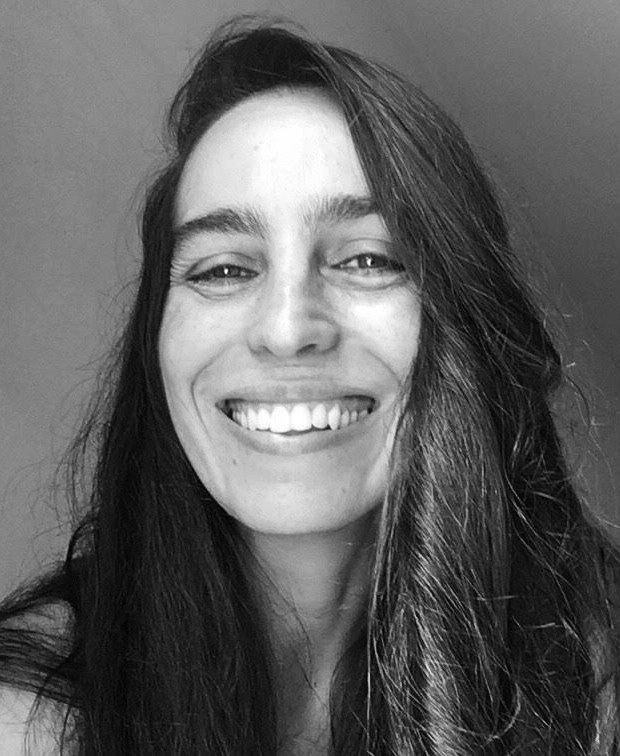
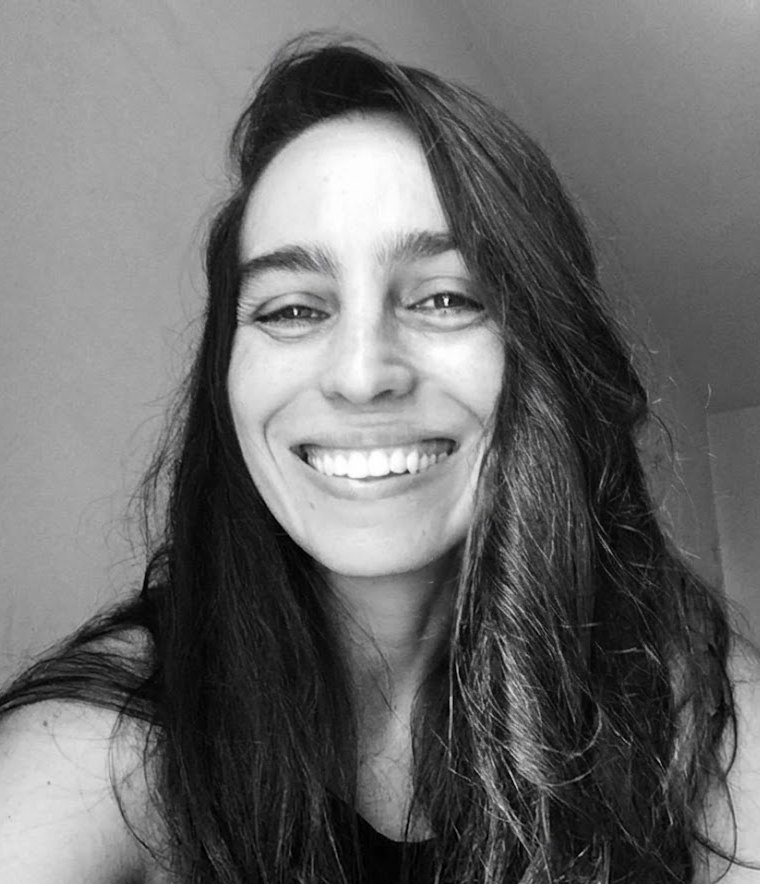
Reuma Zoher Chayot: better-proportioned portrait; Yad Eliyahu: drop gallery image now used as wide header
Claude-Session: https://claude.ai/code/session_01QkAKRws44ovKHraAvb378y

diff --git a/index.html b/index.html
@@ -962,7 +962,7 @@ const SITE = {
     {"id": "instant-pudding", "title": "אינסטנט פודינג ואבק שריפה", "artists": ["אלעד לרום", "אסף אלבוחר", "חניתה שוורץ", "יעל ורטהיים סואן", "יפעת גלעדי", "ניצן המרמן", "עינב צייכנר"], "artistsEn": ["Elad Larom", "Asaf Alboher", "Hanita Schwartz", "Yael Wertheim Suan", "Yifat Giladi", "Nitzan Hamerman", "Einav Zeichner"], "start": "2025-06-13", "end": "2025-08-30", "curator": "אוסקר אבוש, לי אורפז", "img": "img/x-instant-pudding.jpg", "works": [{"img": "img/x-instant-pudding.jpg", "caption": ""}, {"img": "img/x-instant-pudding-w1.jpg", "caption": ""}, {"img": "img/x-instant-pudding-w2.jpg", "caption": ""}, {"img": "img/x-instant-pudding-w3.jpg", "caption": ""}, {"img": "img/x-instant-pudding-w4.jpg", "caption": ""}, {"img": "img/x-instant-pudding-w5.jpg", "caption": ""}], "curatorEn": "Oscar Abosh, Lee Orpaz", "curatorLabel": "אוצרים", "curatorLabelEn": "Curators"},
     {"id": "bear-tooth", "title": "שן הדוב", "artists": ["ציפי לוסטיג"], "artistsEn": ["Zipi Lustig"], "start": "2025-04-04", "end": "2025-05-24", "curator": "הגר רבן", "img": "img/x-bear-tooth.jpg", "curatorEn": "Hagar Raban", "curatorLabel": "אוצרת", "curatorLabelEn": "Curator"},
     {"id": "nowomennokids", "title": "NoWomenNoKids", "artists": ["יבגני מרמן"], "artistsEn": ["Evgeny Merman"], "start": "2025-02-20", "end": "2025-03-29", "curator": "נעה ויסברג", "img": "img/x-nowomennokids.jpg", "curatorEn": "Noa Weisberg", "curatorLabel": "אוצרת", "curatorLabelEn": "Curator"},
-    {"id": "yad-eliyahu", "title": "יד אליהו / שכונה", "text": ["פלורה מלינש מתגוררת עם משפחתה בשכונה בה נולדה. השכונה נבנתה בשנות הארבעים של המאה הקודמת (בשמה הקודם: אדמות זבלאווי), ומאופיינת ב״מבני רכבת״: דירות קטנות, צנועות, בטורים־טורים של בניינים בני ארבע קומות, ביניהם מרחב ציבורי נדיב, חצרות משותפות, גן עדן לילדי השכונה. שכונת יד אליהו היא כמו אבטיפוס לשכונות שנבנו בכל רחבי הארץ באותן שנים, בבנייה מהירה מתוך צורך לאכלס את משוחררי הצבא הבריטי, ולאחר מלחמת העולם השנייה – חיילים משוחררים וניצולי שואה.", "מאז שנת 2018 מלינש משוטטת בשכונה, עדה לתהליכים בלתי נמנעים המתחוללים למולה. המצלמה, סוג של חיץ, מייצרת מרחק, מאפשרת לה להתבונן ולבחון מחדש את המקום המוכר כל כך.", "מלינש מתעדת את שכונת יד אליהו בנקודת זמן קריטית, בלתי נמנעת, בה מתחולל מהפך של הריסת הישן לטובת הקמת בניינים חדשים, גבוהים יותר, מאובזרי מעלית, ממ״ד וחניה. היא חוזרת לאותם אתרים שוב ושוב, מצלמת אותם על השינויים שעוברים עליהם בשלבי ההריסה ועד להיעלמותם. התיעוד הפרטני מטעין את הצילומים גם בתחושת דחיפות, בעקשנות של מלינש, אולי בניסיון להיאחז במקום שהיה.", "הצילומים מציגים את אופי החיים בשכונה, הגבול הפרום בין הפנים והחוץ, פינות ישיבה וחפצים הגולשים אל השטחים שבין הבניינים ואל המרחב הציבורי. במקביל, נוצר גם אינדקס של השכונה שבמעבר: שרידי מבנים, גדרות צבר של תושבים ערבים לפני מלחמת 1948, בנייני הרכבות, חלקם בשלבי הריסה, כניסות, תריסי פלסטיק, רהיטים וחפצים ששרדו את ההריסות, יריעות פלסטיק מפרידות ומכסות, כלי עבודה, מקום תפילתם של הפועלים.", "התבוננות במאגר הצילומים מציגה בפנינו את השכונה הישנה, את אורח החיים של התושבים, את נקודת הזמן העכשווית, בה תילי תילים של חומרי בנייה שהיו פעם בתים הפכו לנוף של המקום. במקביל, הבנייה החדשה התופסת את מקומם של המבנים הישנים מסמנת את העתיד.", "לרגע נדמה שיש בכוחה של המצלמה הקטנה של מלינש לעצור את הזמן מלכת."], "textEn": ["Flora Malinash lives with her family in the neighborhood where she was born. Built in the 1940s (under its former name, the lands of Zablawi), the neighborhood is characterized by “train buildings”: small, modest apartments in long rows of four-story blocks, with generous public space between them – shared courtyards, a paradise for the neighborhood’s children. Yad Eliyahu is something of a prototype for the neighborhoods built across the country in those years, constructed quickly out of the need to house veterans of the British Army and, after the Second World War, discharged soldiers and Holocaust survivors.", "Since 2018, Malinash has been wandering the neighborhood, witnessing the inevitable processes taking place before her. The camera, a kind of buffer, creates distance and allows her to observe and re-examine this all-too-familiar place.", "Malinash documents Yad Eliyahu at a critical, inevitable moment, as a transformation unfolds: the old is demolished to make way for new, taller buildings equipped with elevators, safe rooms and parking. She returns to the same sites again and again, photographing them through the changes they undergo during demolition, until they disappear. This detailed documentation also charges the photographs with a sense of urgency, with Malinash’s persistence – perhaps an attempt to hold on to a place that once was.", "The photographs show the character of life in the neighborhood: the frayed boundary between inside and outside, seating corners and objects spilling into the spaces between the buildings and into the public realm. At the same time, an index of the neighborhood in transition takes shape: remains of structures, prickly-pear hedges planted by Arab residents before the 1948 war, the train buildings – some of them in stages of demolition – entrances, plastic shutters, furniture and objects that survived the demolitions, plastic sheets that separate and cover, work tools, the workers’ place of prayer.", "Looking through this archive of photographs reveals the old neighborhood, the residents’ way of life, and the present moment, in which heaps upon heaps of building materials that were once homes have become the landscape of the place. Meanwhile, the new construction taking the place of the old buildings marks the future.", "For a moment, it seems that Malinash’s small camera has the power to make time stand still."], "artists": ["פלורה מלינש"], "artistsEn": ["Flora Malinash"], "start": "2025-01-02", "end": "2025-02-01", "curator": "גליה גור-זאב", "img": "img/x-yad-eliyahu.jpg", "slides": [{"img": "img/x-yad-eliyahu-wide.jpg", "label": "", "pos": "50% 50%"}], "works": [{"img": "img/x-yad-eliyahu-w1.jpg", "caption": ""}, {"img": "img/x-yad-eliyahu-w2.jpg", "caption": ""}, {"img": "img/x-yad-eliyahu-w3.jpg", "caption": ""}, {"img": "img/x-yad-eliyahu-w4.jpg", "caption": ""}, {"img": "img/x-yad-eliyahu-w5.jpg", "caption": ""}, {"img": "img/x-yad-eliyahu-w6.jpg", "caption": ""}, {"img": "img/x-yad-eliyahu-w7.jpg", "caption": ""}], "curatorEn": "Galia Gur-Zeev", "curatorLabel": "אוצרת", "curatorLabelEn": "Curator"},
+    {"id": "yad-eliyahu", "title": "יד אליהו / שכונה", "text": ["פלורה מלינש מתגוררת עם משפחתה בשכונה בה נולדה. השכונה נבנתה בשנות הארבעים של המאה הקודמת (בשמה הקודם: אדמות זבלאווי), ומאופיינת ב״מבני רכבת״: דירות קטנות, צנועות, בטורים־טורים של בניינים בני ארבע קומות, ביניהם מרחב ציבורי נדיב, חצרות משותפות, גן עדן לילדי השכונה. שכונת יד אליהו היא כמו אבטיפוס לשכונות שנבנו בכל רחבי הארץ באותן שנים, בבנייה מהירה מתוך צורך לאכלס את משוחררי הצבא הבריטי, ולאחר מלחמת העולם השנייה – חיילים משוחררים וניצולי שואה.", "מאז שנת 2018 מלינש משוטטת בשכונה, עדה לתהליכים בלתי נמנעים המתחוללים למולה. המצלמה, סוג של חיץ, מייצרת מרחק, מאפשרת לה להתבונן ולבחון מחדש את המקום המוכר כל כך.", "מלינש מתעדת את שכונת יד אליהו בנקודת זמן קריטית, בלתי נמנעת, בה מתחולל מהפך של הריסת הישן לטובת הקמת בניינים חדשים, גבוהים יותר, מאובזרי מעלית, ממ״ד וחניה. היא חוזרת לאותם אתרים שוב ושוב, מצלמת אותם על השינויים שעוברים עליהם בשלבי ההריסה ועד להיעלמותם. התיעוד הפרטני מטעין את הצילומים גם בתחושת דחיפות, בעקשנות של מלינש, אולי בניסיון להיאחז במקום שהיה.", "הצילומים מציגים את אופי החיים בשכונה, הגבול הפרום בין הפנים והחוץ, פינות ישיבה וחפצים הגולשים אל השטחים שבין הבניינים ואל המרחב הציבורי. במקביל, נוצר גם אינדקס של השכונה שבמעבר: שרידי מבנים, גדרות צבר של תושבים ערבים לפני מלחמת 1948, בנייני הרכבות, חלקם בשלבי הריסה, כניסות, תריסי פלסטיק, רהיטים וחפצים ששרדו את ההריסות, יריעות פלסטיק מפרידות ומכסות, כלי עבודה, מקום תפילתם של הפועלים.", "התבוננות במאגר הצילומים מציגה בפנינו את השכונה הישנה, את אורח החיים של התושבים, את נקודת הזמן העכשווית, בה תילי תילים של חומרי בנייה שהיו פעם בתים הפכו לנוף של המקום. במקביל, הבנייה החדשה התופסת את מקומם של המבנים הישנים מסמנת את העתיד.", "לרגע נדמה שיש בכוחה של המצלמה הקטנה של מלינש לעצור את הזמן מלכת."], "textEn": ["Flora Malinash lives with her family in the neighborhood where she was born. Built in the 1940s (under its former name, the lands of Zablawi), the neighborhood is characterized by “train buildings”: small, modest apartments in long rows of four-story blocks, with generous public space between them – shared courtyards, a paradise for the neighborhood’s children. Yad Eliyahu is something of a prototype for the neighborhoods built across the country in those years, constructed quickly out of the need to house veterans of the British Army and, after the Second World War, discharged soldiers and Holocaust survivors.", "Since 2018, Malinash has been wandering the neighborhood, witnessing the inevitable processes taking place before her. The camera, a kind of buffer, creates distance and allows her to observe and re-examine this all-too-familiar place.", "Malinash documents Yad Eliyahu at a critical, inevitable moment, as a transformation unfolds: the old is demolished to make way for new, taller buildings equipped with elevators, safe rooms and parking. She returns to the same sites again and again, photographing them through the changes they undergo during demolition, until they disappear. This detailed documentation also charges the photographs with a sense of urgency, with Malinash’s persistence – perhaps an attempt to hold on to a place that once was.", "The photographs show the character of life in the neighborhood: the frayed boundary between inside and outside, seating corners and objects spilling into the spaces between the buildings and into the public realm. At the same time, an index of the neighborhood in transition takes shape: remains of structures, prickly-pear hedges planted by Arab residents before the 1948 war, the train buildings – some of them in stages of demolition – entrances, plastic shutters, furniture and objects that survived the demolitions, plastic sheets that separate and cover, work tools, the workers’ place of prayer.", "Looking through this archive of photographs reveals the old neighborhood, the residents’ way of life, and the present moment, in which heaps upon heaps of building materials that were once homes have become the landscape of the place. Meanwhile, the new construction taking the place of the old buildings marks the future.", "For a moment, it seems that Malinash’s small camera has the power to make time stand still."], "artists": ["פלורה מלינש"], "artistsEn": ["Flora Malinash"], "start": "2025-01-02", "end": "2025-02-01", "curator": "גליה גור-זאב", "img": "img/x-yad-eliyahu.jpg", "slides": [{"img": "img/x-yad-eliyahu-wide.jpg", "label": "", "pos": "50% 50%"}], "works": [{"img": "img/x-yad-eliyahu-w2.jpg", "caption": ""}, {"img": "img/x-yad-eliyahu-w3.jpg", "caption": ""}, {"img": "img/x-yad-eliyahu-w4.jpg", "caption": ""}, {"img": "img/x-yad-eliyahu-w5.jpg", "caption": ""}, {"img": "img/x-yad-eliyahu-w6.jpg", "caption": ""}, {"img": "img/x-yad-eliyahu-w7.jpg", "caption": ""}], "curatorEn": "Galia Gur-Zeev", "curatorLabel": "אוצרת", "curatorLabelEn": "Curator"},
     {"id": "dissolution", "title": "התמוססות", "text": ["מספרים על אל גרקו שהיה מצייר כאשר הסטודיו שלו מואר באור קלוש. יום אחד נכנסה קבוצת פרחי אמנות לבקרו כדי לחזות במאסטר מצייר, הם הופתעו מהחושך ששורר בסטודיו ושאלו אותו - מדוע כה חשוך אצלו? והאם זה לא מקשה עליו לצייר? ענה להם אל גרקו: ״בשביל לצייר את צפונות ליבי אני לא זקוק לאור חיצוני״.", "זוהי אגדה אורבנית יפה, מעין מיתוס חביב ומעורר מחשבה. האם זה קרה במציאות או שמדובר באגדה? זה לא משנה כלל, כי סיפור זה נוגע בנקודה עמוקה שנוגעת גם בציורה של שירה קמרד.", "ציורה לרוב יוצא מתוך חשיכה אל עבר האור, אבל זהו אור שאינו מבטל את החשיכה אלא דווקא מדגיש אותה מתוך קיום של יחסי גומלין מורכבים. גם אם מושאי הציור של קמרד - הקומפוזיציה, הדימויים, ואפילו פרגמנטים מסרטי קולנוע - מבוססים על מציאות חיצונית, הרי יחסי הגומלין של חשיכה, אור וצל אצלה הם פנימיים נפשיים.", "המתח אשר מתקיים בציוריה של קמרד, כמו באותו סיפור על אל גרקו, הוא מתח בין החיצוני לפנימי, בין תפיסת הממשות לחלום. הגבול הדק בין שני ההיבטים האלה בציוריה, מתבטא מצד אחד ביחסי קונפליקט, ומצד שני בהתמוססות.", "האור והחושך מתקיימים כניגוד צבעוני בציוריה בין הכהה לבהיר, בין הקר לחם, אך לרוב במקום לשמור על הגדרת גבולות ברורים, הם נמסים האחד אל תוך השני וממוססים את האפשרות לאחוז בדימוי קונקרטי ברור, בוויזואליה שמייצגת מציאות נהירה.", "אל תוך הציור מתגנבת חרדה כמו זו אשר מתוארת במאמרו המפורסם של פרויד על האלביתי[^1]. זו חרדה מפני המוזר והאפל אשר קיים בתוך סיטואציות מוכרות מהחיים היום יומיים; אנשים הולכים ברחוב חשוך אשר מואר באופן קלוש, שתי דמויות צלליתיות צופות אל עבר זיקוקי דינור בשמי לילה חשוכים/מוארים, חדר צפוף וחשוך מוצל בצל ואורות סגולים, קרים, כחלחלים, בתוכן יושבות שלוש דמויות מטושטשות פנים.", "דמויות יושבות בחוץ מסביב לשולחן מלבני מואר באור מסמא זרחני. זוהי ארוחה לילית חשוכה, את סועדיה מאירה שרשרת תאורת פנסים צבעונית. האור מגלה עזובה מסביב, אווירה מלנכולית ומצמררת שורה על האירוע הזה.", "הסצנות המתוארות מבוססות על סיטואציות מוכרות, אבל עבודת הצבע הייחודית והמשובחת של קמרד מבוססת על צבעוניות אשר יוצרת הזרה ומדגישה צללים כבדים ועמוקים ואורות זרחניים, אשר יוצרים תחושה של חלום בתוך מציאות או שמא מציאות בתוך חלום.", "החוויה שמתעוררת אצל הצופה היא חוויה של דיסאוריינטציה, תחושה אשר מזכירה מצב של התעוררות מחלום מטריד בבוקרו של יום, חלום שנשכח ברובו אבל תחושת המוטרדות והניסיון להיזכר רודפת אותך לאורך כל היום ומבליחה במיני סיטואציות יום יומיות, ולרגעים אינך יודע מהו חלום ומהי מציאות, מהו יום ומהו לילה, מצב תודעתי לימינאלי.", "הצבעים בציוריה של קמרד, אלה שמייצגים את האור ואלה אשר מייצגים את המוצל והחשוך, אינם מבוססים על עקרונות ראליסטים. לעתים, מה שאמור לייצג אור ומה שאמור לייצג צל או חושך, מתהפכים ויוצרים תחושה של פילם נגטיבי לפני פיתוח, כמו שהיה פעם.", "ציוריה של קמרד מתאפיינים בממד דרמתי קולנועי. זוהי הדרמה של חיי הנפש, דרמה פנימית שייצוגה הוא ציור פיגורטיבי (עם ערכים מופשטים). זהו ציור שעיקר הדרמה שלו היא התמוססותו אל תוך עיניו ותודעתו של הצופה, כך שנשאר שם אניגמטי ולא פתור. ואתה, כצופה טרוד, נשאר עם הרצון להבינו ולפענחו."], "textEn": ["It is said that El Greco used to paint with his studio dimly lit. One day a group of young art students came to visit him to watch the master paint. Surprised by the darkness in the studio, they asked him why it was so dark, and whether it did not make painting difficult for him. El Greco answered: “To paint the secrets of my heart, I do not need outside light.”", "It is a lovely urban legend, a kind of charming, thought-provoking myth. Did it really happen, or is it a legend? It does not matter at all, for this story touches on a deep point that also touches on Shira Kamrad’s painting.", "Her painting usually emerges out of darkness toward light, but it is a light that does not cancel the darkness; rather, it emphasizes it through a complex interplay. Even if the subjects of Kamrad’s paintings – the composition, the images, even fragments of films – are based on external reality, the interplay of darkness, light and shadow in her work is internal and psychological.", "The tension in Kamrad’s paintings, as in that story about El Greco, is a tension between the external and the internal, between the perception of reality and the dream. The fine line between these two aspects in her paintings is expressed on the one hand as conflict, and on the other as dissolution.", "Light and darkness exist in her paintings as a chromatic contrast between dark and bright, cold and warm, but rather than maintaining clearly defined boundaries, they usually melt into one another and dissolve the possibility of grasping a clear, concrete image – a visuality that represents a comprehensible reality.", "An anxiety creeps into the painting, like the one described in Freud’s famous essay on the uncanny[^1]: an anxiety about the strange and dark that exists within familiar situations of everyday life. People walk down a dark, dimly lit street; two silhouetted figures watch fireworks in a dark/illuminated night sky; a cramped, dark room steeped in shadow and in purple, cold, bluish lights, in which three figures with blurred faces sit.", "Figures sit outside around a rectangular table lit by a blinding, fluorescent light. It is a dark nocturnal meal, its diners lit by a string of colorful lanterns. The light reveals desolation all around; a melancholy, chilling atmosphere hangs over the event.", "The scenes depicted are based on familiar situations, but Kamrad’s unique and exquisite handling of color relies on a palette that creates estrangement and emphasizes heavy, deep shadows and fluorescent lights, producing a sense of a dream within reality – or perhaps reality within a dream.", "The experience awakened in the viewer is one of disorientation, a feeling reminiscent of waking from a disturbing dream in the morning – a dream that is mostly forgotten, yet the sense of unease and the effort to remember haunt you throughout the day and flash up in all kinds of everyday situations, so that for moments you do not know what is dream and what is reality, what is day and what is night: a liminal state of consciousness.", "The colors in Kamrad’s paintings, both those that represent light and those that represent the shaded and the dark, are not based on realistic principles. At times, what should represent light and what should represent shadow or darkness are reversed, creating the feeling of an undeveloped film negative, as it once was.", "Kamrad’s paintings are characterized by a dramatic, cinematic dimension. This is the drama of the inner life, an inner drama represented through figurative painting (with abstract values). It is painting whose main drama is its dissolution into the eyes and consciousness of the viewer, so that it remains there enigmatic and unresolved. And you, a troubled viewer, are left with the desire to understand and decipher it."], "notes": ["פרויד, ז. (2012). האלביתי, מבחר כתבים ח (1919). תל אביב, רסלינג."], "notesEn": ["Freud, S. (2012). The Uncanny, Selected Writings 8 (1919). Tel Aviv: Resling. [Hebrew]"], "textBy": "אסף רהט", "textByEn": "Assaf Rahat", "artists": ["שירה קמרד"], "artistsEn": ["Shira Kamrad"], "start": "2024-11-07", "end": "2024-12-07", "curator": "אסף רהט", "img": "img/x-dissolution.jpg", "works": [{"img": "img/x-dissolution.jpg", "caption": ""}, {"img": "img/x-dissolution-w1.jpg", "caption": ""}, {"img": "img/x-dissolution-w2.jpg", "caption": ""}, {"img": "img/x-dissolution-w3.jpg", "caption": ""}, {"img": "img/x-dissolution-w4.jpg", "caption": ""}, {"img": "img/x-dissolution-w5.jpg", "caption": ""}], "slides": [{"img": "img/x-dissolution-w4.jpg", "label": "", "pos": "50% 45%"}], "curatorEn": "Assaf Rahat", "curatorLabel": "אוצר", "curatorLabelEn": "Curator"},
     {"id": "plus-minus-x", "title": "פלוס מינוס איקס", "titleEn": "Plus Minus X", "artists": ["בני אפרת"], "artistsEn": ["Benni Efrat"], "start": "2024-09-06", "end": "2024-11-02", "curator": "משכית בנדל, יקיר שגב", "curatorEn": "Maskit Bendel, Yakir Segev", "curatorLabel": "אוצרים", "curatorLabelEn": "Curators", "img": "img/x-plus-minus-x.jpg", "slides": [{"img": "img/x-plus-minus-x-w4.jpg", "label": ""}], "works": [{"img": "img/x-plus-minus-x-w1.jpg", "caption": ""}, {"img": "img/x-plus-minus-x-w2.jpg", "caption": ""}, {"img": "img/x-plus-minus-x-w3.jpg", "caption": ""}, {"img": "img/x-plus-minus-x-wide.jpg", "caption": ""}, {"img": "img/x-plus-minus-x-w5.jpg", "caption": ""}, {"img": "img/x-plus-minus-x-w6.jpg", "caption": ""}, {"img": "img/x-plus-minus-x-w7.jpg", "caption": ""}], "text": ["בני אפרת, מבכירי האמנים המושגיים בישראל, נולד בביירות בשנת 1936 והגיע לארץ בשנת 1947. בין השנים 1967–1968 למד אפרת בבית הספר סנט מרטין בלונדון, ולאחר מכן, עד שנת 2011, המשיך לחיות וליצור בערים אחרות ברחבי העולם, כשהוא מציג במוזיאונים ובגלריות החשובים בתחום האמנות העכשווית: מרכז פומפידו בפריז, מוזיאון וויטני בניו יורק ומוזיאון סטדליק באמסטרדם, וכן בביאנלה בפריז ובפראג. במכלול העבודות המוצגות מתבססת השפה הקונספטואלית החזותית, העקבית והעשירה שלו, זו שמזוהה עימו היום כאחד ממנסחיה של האמנות המושגית בשיאה.", "החל משנות ה־70 יצר אפרת גוף עבודות נרחב ברישום, הדפס, צילום, ציור ועבודות וידאו ניסיוניות, שעיקרו מחקרים פלסטיים שיטתיים אודות אבני השפה הבסיסיות של האמנות החזותית: קו, כתם, חומר, משטח, גריד וצבע. בעבודותיו חקר אפרת טכניקות של גריעה באמצעות מחיקה, קילוף והדהייה מתוכננת, וכן ריבוד, הוספה ותיקון האלמנטים שאותם העלים בשיטתיות בשלבי היצירה הראשוניים. הטכניקות הייחודיות שפיתח אפרת אינן רק שיטות עבודה, אלא לב היצירה עצמה וחלק מהותי בתוצאה הסופית, שכן הצורה והתוכן אחד הם. בשנות השבעים יצר שורה של סרטים ניסיוניים חשובים[^1], וכן מיצגים המשלבים ציור, פעולה והקרנה, למשל כאשר הוא מצייר על משטח שעליו מוקרן סרט, והציור, האור והתנועה הם היצירה המתהווה מול הצופה. גם בעבודות מאוחרות יותר נותרו הדימויים חמקמקים ובני חלוף: מילות שיר מוקרנות על אדים של חלב מהביל, ואותיות המילה שלום, עשויות בלוקים של קרח, נמסות עד שנעלמו. יש ואין; היה, יהיה וכבר איננו; חומר ואין־חומר – תמיד ריתקו אותו. אפרת הוא תמיד חוקר שמנסה להבין \"למה ואיך הדברים נעשו ביקום\".[^2]", "גם הסימן הגרפי חוזר ורודף את אפרת, בפרט הצורה שריתקה אותו במיוחד – האיקס (x) – שמסמן גילוי, ביטול, עצירה, מוות והחסרה. ברבות מיצירותיו של אפרת נוכח גריד (סריג) המשבצות הגרפי, שדווקא בשל היותו מצע סדור וחזרתי, הוא מדגיש את פעולות הפריעה והריקון ומשמר את זיכרון השיבוש. הגריד של אפרת הוא גם זיכרון מחברת החשבון שעליה משורטטות צורות אוניברסליות ראשוניות: פלוס, מינוס ואיקס. גריד זה הוא גם נייר השרטוט האדריכלי שבו חוצב אפרת שכבות ובמקביל מעמיס עליו שכבות נוספות. לעיתים הוא אף מוחק את הגריד – אבל רק בשביל לשרטט אותו מחדש באופן מתעתע, ושוב לשבש את ההפרדה המובחנת בין צורה לרקע. מחד גיסא הגריד הוא \"כסימן ריק שתכליתו האחת לתפקד כמבנה מסדיר, מוכר וקל לזיהוי, ומאידך גיסא... כסימן תרבותי מוסכם וטעון... הנה המאבק: הצורך בהטענת משמעות לעומת מניעת המשמעות...\" (המחסן של גדעון עפרת, \"איתמר לוי: העצמי והמבט\", 29.5.2021). עפרת מצטט את לוי, תאורטיקן וחוקר האמנות, שכותב כי \"ההנחה שהסריג הוא סימן ריק מקנה חופש ושאננות ביישומו. האפשרות שהסריג בכל זאת אינו ריק לחלוטין, היא מחשבה טורדנית, ואנו ממהרים לגרש אותה\"[^3]. אצל אפרת הגריד הוא משטח, אך גם הדבר עצמו. היותו של הדימוי עליו, מתחתיו או דרכו (IN THROUGH ON) מאלץ את הצופה לחקור את הטכניקה מקרוב ואז לגלות שהעבודה ניצבה מולו מוגמרת מלכתחילה, על האניגמטיות שלה. במובן זה, IN THROUGH ON היא כל התורה כולה על רגל אחת.", "אפרת הוא אמנם חוקר במעבדה, אך בד בבד הוא משאיר מקום למקריות מדודה. בתערוכה מוצגות סדרות שונות מעבודותיו, שמייצגות את המחקר והמשחק שאפיינו את יצירתו בשלביה המוקדמים, ואת המתח המובנה בהן בין תכנון מדוקדק לאובדן שליטה בתוצאה. בחלק מהן גם האור והזמן עצמם הם שותפים פעילים ביצירה – ומגלמים את אובדן השליטה המוחלט בתוצאה. מהלכיהם הצפויים והבלתי צפויים כאחד הם חלק מן המחקר של אפרת אודות סדרתיות, שכבתיות ועמלנות, אבל גם ניסיון להבין, כאמור, \"למה ואיך הדברים נעשו ביקום\".", "את הטכניקות והנושאים שמייצגות העבודות שנבחרו ניתן לחלק למספר קטגוריות, שבחלק מן העבודות שלובות אלו באלו: ריבוד, הוספה וגריעה, אור וזמן. בסדרה Scope, שבה הוא מדפיס צבע בטכניקה של הדפס רשת על שכבות נייר, בוחן אפרת את האפקט שנוצר מערבוב סדרתי של צבעים, ומריבוד הגיליונות אלו על אלו בצורה המאפשרת הצצה לצבע ביניהם. הגוונים נוצרים באמצעות חיבורם של שני צבעים, היוצרים בתורם את הצבע השלישי, וכך הלאה. שם הסדרה, Scope, שמשמעו מרחב, טווח, תחום ויריעה, מצביע על העניין המחקרי של אפרת במינונים ובטווחים צבעוניים, וכן ביחסים בין דו־ממד לתלת־ממד. עניין זה ישוב ויצוץ בעבודות מאוחרות של אפרת, שאינן מוצגות כאן, בהדפס על שכבות של בד שקוף, כאשר השכבה העליונה מרחפת בחלל ומכל זווית ראייה משתנה הדימוי.", "אפרת ממשיך לבחון את האפקט של אור וזמן, והפעם על צבע. על גג בית שטוף שמש בתל אביב הוא הציב משטחי קרטון צבועים בצבעי יסוד אחידים (כחול, אדום וכן צהוב, שאינו מוצג כאן). משטחי הצבע כוסו בלוחיות מתכת קטנות היוצרות גריד או שורות. בכל שעה הסיר אפרת לוחית אחת, כך שהשמש מדהה רק את האזור החשוף. המשבצת או השורה האחרונה שנותרה על המצע משמרת את הצבע המקורי. בתחתית העבודה יש רישום מדויק של שעות החשיפה – האמן אמנם שיתף את הטבע ביצירתו, אך הוא עדיין חוקר המתעד את עבודתו בדייקנות.", "בסדרה של ארבעה צילומי חלונות, שהם חלק מסדרת תצלומים גדולה, מציב אפרת מצלמה נייחת מול חלון סגור לתקופה ארוכה ומצלם תצלום אחד מדי יום. במקביל מצטבר אבק בשכבות על החלונות, ומעמעם את האור ואת קווי המתאר הגאומטריים והברורים של הדימוי. המתח בין תכנון מדוקדק ושליטה ובין אובדן השליטה ביצירה זו אופייני לעבודותיו המושגיות של אפרת, ומקבל כאן היבט נוסף בשל שיתוף יוצרים חיצוניים – אור, אבק וזמן. בעבודות אלה, המשלבות את כוחות הטבע ביצירה, כבר מבחינים בעניין של אפרת בזמן ובארעיות החיים על כדור הארץ – נושא שמעסיק אותו באינטנסיביות בארבעת העשורים האחרונים.", "בסדרה של תשעה הדפסי תצריב, המוצגים בתערוכה זו לראשונה, חוזר וניכר העניין של אפרת בסדרתיות, וכן בריבוד ובשכבתיות, שמחד גיסא מגלה ומאידך גיסא מסתירה. לכל הדפס בסדרה נוסף מספר חדש, אך אלו שקדמו לו מתחילים להיעלם – במשחק של יש ואין, היה ונגמר. גם כאן נוכח הזמן, המגולם במספרים ומונה את המקצב. דימוי המספר 1 ממשיך לבצבץ דרך הצבע שנמרח על הלוחות גם בהדפסים הבאים בסדרה, עד שהוא נעלם, וכך הלאה ביחס לשאר הספרות, כך שבסדרה זו הטכניקה היא היצירה עצמה. העניין של אפרת באייקון המרובד (הסימן, המספר והאות) חוזר גם בהדפסי האופסט בשחור־לבן המוצגים על הקיר הנגדי, שבהם אותיות האלף־בית הלטיני יוצרות משטחים ודימויים גרפיים חדשים, כשהן נערמות זו על זו בצורה שיטתית וסדורה, ככל הנראה בתזוזה מדודה וקבועה.", "מודל הפסל המוצג בתערוכה – גוש אבן הכלוא בכלוב ברזל – הוא עבודה מאוחרת יותר של אפרת. המודל מסמל את המעבר שהוא עומד לעשות לשלב הבא ביצירתו, ומקשר בין העניין האינטנסיבי שלו בתצורות של ריבועים ובגריד בשנות ה־70 ובין תנועה וכוח (אנרגיה). במודל זה לפסלי האבן והברזל של אפרת, מבקשת האבן לפרוץ מכלוב הגריד שבו היא כלואה, ומערערת על יחסי הכוחות המקובלים בין מסה לחומר. גם כאן עוסק אפרת ביחס בין נושא ונשוא: בין משטח שהוא מסגרת תוחמת ובין המשהו הנוסף – סימן, אובייקט או חומר – שמשבש ופורע אותו."], "textEn": ["Benni Efrat, one of Israel's foremost conceptual artists, was born in Beirut in 1936 and came to the country in 1947. In 1967–1968 he studied at Saint Martin's School of Art in London, and from then until 2011 he went on living and working in other cities around the world, exhibiting at major museums and galleries of contemporary art: the Centre Pompidou in Paris, the Whitney Museum in New York and the Stedelijk Museum in Amsterdam, as well as the biennials of Paris and Prague. The body of work on view establishes his consistent and rich visual conceptual language, which today identifies him as one of the architects of conceptual art at its height.", "From the 1970s on, Efrat produced an extensive body of work in drawing, printmaking, photography, painting and experimental video, centered on systematic plastic investigations of the basic building blocks of visual art: line, stain, matter, surface, grid and color. In his works Efrat explored techniques of subtraction through erasure, peeling and planned fading, as well as layering, adding and correcting the elements he had systematically concealed in the early stages of the work. The distinctive techniques Efrat developed are not merely working methods but the heart of the work itself and an essential part of the final result, since form and content are one. In the seventies he made a series of important experimental films[^1], as well as performances combining painting, action and projection – for instance painting on a surface onto which a film is projected, so that the painting, the light and the movement are the work taking shape before the viewer. In later works, too, the images remain elusive and ephemeral: words of a poem projected onto the vapor of steaming milk, and the letters of the word shalom (peace), made of blocks of ice, melting until they vanish. Presence and absence; what was, what will be and what is already gone; matter and non-matter – these have always fascinated him. Efrat is forever a researcher trying to understand \"why and how things were made in the universe.\"[^2]", "The graphic sign, too, returns to haunt Efrat, especially the form that fascinated him most – the X – which marks discovery, cancellation, stopping, death and omission. Many of Efrat's works feature a graphic grid of squares which, precisely because it is an orderly and repetitive ground, accentuates the acts of disruption and emptying and preserves the memory of the disturbance. Efrat's grid is also the memory of the squared arithmetic notebook on which primary universal forms are drawn: plus, minus and X. It is also the architect's drafting paper, from which Efrat carves away layers while piling on new ones. At times he even erases the grid – but only to redraw it deceptively and once again disrupt the clear separation between figure and ground. On the one hand the grid is \"an empty sign whose sole purpose is to function as an ordering structure, familiar and easily recognized, and on the other... an agreed-upon and charged cultural sign... Here is the struggle: the need to charge with meaning versus the withholding of meaning...\" (Gideon Ofrat's Storeroom, \"Itamar Levy: The Self and the Gaze,\" 29.5.2021). Ofrat quotes Levy, the art theorist and scholar, who writes that \"the assumption that the grid is an empty sign grants freedom and complacency in its application. The possibility that the grid is nevertheless not entirely empty is a troubling thought, and we hasten to banish it.\"[^3] For Efrat the grid is a surface, but also the thing itself. Whether the image lies on it, beneath it or through it (IN THROUGH ON) forces the viewer to examine the technique up close, only to discover that the work stood before them complete from the outset, in all its enigma. In this sense, IN THROUGH ON is the whole of the teaching in a nutshell.", "Efrat may be a researcher in a laboratory, but he also leaves room for measured chance. The exhibition presents several series that represent the research and play that characterized the early stages of his work, and the tension built into them between meticulous planning and loss of control over the outcome. In some of them, light and time themselves are active partners in the work – embodying a complete loss of control over the result. Their predictable and unpredictable courses alike are part of Efrat's research into seriality, layering and labor, but also part of his attempt to understand, as noted, \"why and how things were made in the universe.\"", "The techniques and themes represented by the selected works can be divided into several categories, which in some works are intertwined: layering, addition and subtraction, light and time. In the Scope series, in which he screenprints color onto layers of paper, Efrat examines the effect created by the serial mixing of colors and by stacking the sheets one on top of the other in a way that allows a glimpse of the color between them. The shades are produced by combining two colors, which in turn create a third, and so on. The series title, Scope – meaning range, extent, field or expanse – points to Efrat's research interest in doses and ranges of color, as well as in the relations between two and three dimensions. This interest would resurface in later works by Efrat, not shown here, printed on layers of transparent fabric, with the top layer floating in space so that the image changes from every viewing angle.", "Efrat continues to examine the effect of light and time, this time on color. On the roof of a sun-drenched house in Tel Aviv he placed cardboard surfaces painted in flat primary colors (blue, red, and also yellow, not shown here). The colored surfaces were covered with small metal plates forming a grid or rows. Every hour Efrat removed one plate, so that the sun faded only the exposed area. The last square or row left on the surface preserves the original color. At the bottom of the work is a precise record of the hours of exposure – the artist may have made nature a partner in his work, but he remains a researcher who documents his work with precision.", "In a series of four photographs of windows, part of a larger photographic series, Efrat set a fixed camera in front of a closed window for a long period and took one photograph each day. Meanwhile dust accumulates in layers on the windows, dimming the light and the clear geometric outlines of the image. The tension between meticulous planning and control and the loss of control in this work is characteristic of Efrat's conceptual works, and here takes on a further dimension through the participation of outside collaborators – light, dust and time. In these works, which bring the forces of nature into the work, one can already discern Efrat's interest in time and in the transience of life on Earth – a subject that has occupied him intensively over the past four decades.", "In a series of nine etchings, shown in this exhibition for the first time, Efrat's interest in seriality, and in layering that both reveals and conceals, is evident once again. A new number is added to each print in the series, while those that came before begin to disappear – in a play of presence and absence, of what was and what has ended. Here too time is present, embodied in the numbers and counting the rhythm. The image of the number 1 keeps showing through the color spread on the plates in the following prints of the series, until it disappears, and so on with the other digits, so that in this series the technique is the work itself. Efrat's interest in the layered icon (the sign, the number and the letter) returns in the black-and-white offset prints on the opposite wall, in which the letters of the Latin alphabet form new surfaces and graphic images as they are stacked on top of one another in a systematic and orderly manner, apparently with a measured, constant shift.", "The sculpture model on view – a block of stone confined in an iron cage – is a later work by Efrat. It marks the transition he was about to make to the next stage of his practice, linking his intensive interest in configurations of squares and in the grid in the 1970s with movement and force (energy). In this model for Efrat's stone and iron sculptures, the stone seeks to break out of the cage of the grid in which it is confined, and challenges the accepted balance of power between mass and matter. Here too Efrat addresses the relation between subject and predicate: between a surface that is a bounding frame and that something extra – a sign, an object or a material – that disrupts and unsettles it."], "notes": ["לצפייה בעבודות וידאו משנות ה־70: פרויקט מרסל – עמותה והוצאה לאור לקידום אמנות ותרבות בישראל: Benni Efrat: Round A Round (1970); Benni Efrat: Breaking Point of Tension (1973); Benni Efrat: Relay (1974); Benni Efrat: Stedelijk Museum (1975); Benni Efrat: Tailgate (1973); Benni Efrat: 100 Feet Walk (1973). לקריאה נוספת: פרויקט מרסל, יצירות מופת באמנות מודרנית בישראל, \"בני אפרת, סרטים נסיוניים משנות ה־70\", עורכת: עדי אנגלמן, 2005.", "David Wakstein, \"David and Goliath – Art Talks: Benni Efrat\" (Ein Harod Talks #3), 2014.", "איתמר לוי, \"סריגים שאינם סורגים\", סטודיו 27, עמ' 17, נובמבר 1991."], "notesEn": ["For video works from the 1970s, see Project Marcel – an association and publisher for the promotion of art and culture in Israel: Benni Efrat: Round A Round (1970); Benni Efrat: Breaking Point of Tension (1973); Benni Efrat: Relay (1974); Benni Efrat: Stedelijk Museum (1975); Benni Efrat: Tailgate (1973); Benni Efrat: 100 Feet Walk (1973). Further reading: Project Marcel, Masterpieces of Modern Art in Israel, \"Benni Efrat: Experimental Films from the 1970s,\" ed. Adi Engelman, 2005.", "David Wakstein, \"David and Goliath – Art Talks: Benni Efrat\" (Ein Harod Talks #3), 2014.", "Itamar Levy, \"Grids That Do Not Bar\" [Hebrew], Studio 27, p. 17, November 1991."]},
     {"id": "reading-tearing", "title": "קריאה: קריעה", "textEn": ["On a rainy winter night in 2022, the artist Shimon Avni found a completely soaked book lying in a puddle. Avni instinctively pulled it out and took it with him to his studio, from which he was often absent at the time. Examining the wet book, Avni recognized, even though its pages were already stuck together beyond separating, that it was an American art catalogue. It was then that the desire arose in him to save the book from total destruction and to “do something with it” in the studio.", "This was also the period when his beloved wife, the late Dalia, fell ill, and Avni devoted himself to caring for her at home. Unable to get to the studio, he went on painting at home, producing hundreds of sheets there. Meanwhile, the book had dried in the artist’s studio and turned out to be a hefty 1995 volume surveying the exhibition of the Ford Motor Company art collection at the Metropolitan Museum of Art in New York[^1].", "When Dalia passed away, the artist began, even during the period of mourning, to work directly on the pages of the book he had rescued from the puddle, using it as both ground and material for a new work in the format of a bound book. Through painting, collage and, above all, tearing the pages (recalling the Jewish custom of keriah, the tearing of one’s garment in mourning), Avni created direct, intuitive responses and actions that accompany the leafing through of the book.", "At the end of the process, the book’s pages were carefully scanned at the Bezalel Academy and rebound as a facsimile of the original book-object, which the artist put away. Avni chose to call the work “Keriah” (Tearing), and, as he defines it, it is the first and last conceptual work he has made.", "Shimon Avni was born in Paris in 1932 as Simon Stein and grew up in the Belleville neighborhood. Following the Nazi occupation of France, he was forced to part from his family, and during the war years he was hidden in villages and forests. Only at the end of the war did he learn that his family had not survived.", "Avni immigrated to Israel in 1948, and in 1957 studied with the New Horizons artists Yosef Zaritsky and Avigdor Stematsky, as well as with Yehezkel Streichman at the Avni Institute. He was even invited to exhibit with this influential group in its ninth exhibition, at the Helena Rubinstein Pavilion of the Tel Aviv Museum (1959). Avni pursued further studies in Paris and Rome in the late 1950s and early 1960s, and the experimental, restless and inquisitive character of his work led him back to Paris in 1965–1967, where he studied photography.", "Avni has been painting for some seventy years. He has had numerous solo exhibitions in museums and galleries (the Tel Aviv Museum of Art, the Haifa Museum, the Petach Tikva Museum, the Artists’ Houses in Tel Aviv and Jerusalem, Katz Gallery, Rina Gallery, Mabat Gallery, the Kibbutz Gallery, Liebermann 8 and others) and has taken part in many group exhibitions in Israel and abroad. He has also taught at various art schools in Israel (Bezalel Academy, HaMidrasha School of Art, the Avni Institute and others).", "Today, past the age of 90, Shimon Avni remains active and continues to work steadily in his studio. His recent works are characterized by a multifaceted, curious use of a wide range of materials that the artist gathers in his studio, and by inventiveness and a dialogue with materials of past and present drawn from his rich biography."], "notesEn": ["Hambourg, Maria Morris, and Christopher Phillips, The New Vision: Photography between the World Wars. The Ford Motor Company Collection at The Metropolitan Museum of Art, 1995"], "text": ["בליל חורף גשום בשנת 2022 מצא האמן שמעון אבני ספר רטוב לגמרי בתוך שלולית מים. אבני שלף את הספר באופן אינסטינקטיבי ולקח אותו עימו לסטודיו שלו, שממנו הרבה להיעדר באותו הזמן. כשבחן אבני את הספר הרטוב, הוא זיהה, למרות שהדפים כבר היו דבוקים האחד לשני ללא הפרד, שמדובר בקטלוג אמנות אמריקאי. או־אז נבט בו הרצון להציל את הספר מכליה מוחלטת ו״לעשות עימו״ משהו בסטודיו.", "זו היתה גם התקופה בה חלתה אשתו האהובה דליה ז״ל, ואבני התמסר לטיפול בה בביתם. כיון שלא יכול היה להגיע לסטודיו, המשיך אבני לצייר בבית ויצר שם מאות דפים. בינתיים כבר התייבש הספר בסטודיו של האמן, והתגלה ככרך עב כרס מ־1995, הסוקר את תערוכת אוסף האמנות של חברת המכוניות האמריקאית ״פורד״ במוזיאון המטרופוליטן בניו יורק[^1].", "כשנפטרה דליה, אשתו של אבני, החל האמן, גם בתוך תקופת האבל, לעבוד ישירות על דפי הספר שהציל מן השלולית, כשהוא משתמש בו כמצע וכחומר לעבודה חדשה, בפורמט של ספר כרוך. באמצעות ציור, הדבקה ובעיקר קריעת הדפים (המאזכרים את קריעת הבגד היהודית בזמן אבל), יצר אבני תגובות ופעולות אינטואיטיביות ישירות המלוות את הדפדוף בספר.", "בתום התהליך נסרקו דפי הספר בקפידה באקדמיה ״בצלאל״ ונכרכו מחדש כפקסימיליה של הספר־אובייקט המקורי, שאותו גנז האמן. לעבודה בחר אבני לקרוא בשם ״קריעה״, וכהגדרתו – זו העבודה המושגית הראשונה והאחרונה שיצר.", "שמעון אבני, יליד פריז, 1932, נולד בשם סימון שטיין וגדל בשכונת בלוויל. בעקבות כיבוש צרפת על ידי הנאצים נאלץ להיפרד ממשפחתו, ובשנות המלחמה הוסתר בכפרים וביערות. רק בסיום המלחמה גילה שמשפחתו לא שרדה.", "אבני עלה לישראל בשנת 1948 ולמד ב־1957 אצל אמני קבוצת ״אופקים חדשים״ יוסף זריצקי ואביגדור סטימצקי, וכן אצל יחזקאל שטרייכמן במכון אבני. הוא אף זכה להציג עם קבוצת האמנות המשפיעה הזו בתערוכתה התשיעית, בביתן הלנה רובינשטיין של מוזיאון תל אביב (1959). אבני השתלם בפריז וברומא בסוף שנות ה־50 ותחילת ה־60, והאופי ההתנסותי, חסר המנוח והחקרן שבעבודותיו הניע אותו לחזור לפריז בשנים 1967-1965, שם למד צילום.", "אבני מצייר כבר כ־70 שנה. הוא הציג תערוכות יחיד רבות במוזיאונים וגלריות (במוזיאון תל אביב, מוזיאון חיפה, מוזיאון פתח תקווה, בית האמנים בתל אביב ובירושלים, גלריה כ״ץ, גלריה רינה, גלריה מבט, גלריית הקיבוץ, ליברמן 8 ועוד) והשתתף בתערוכות קבוצתיות רבות בארץ ובעולם. בנוסף, הוא גם שימש בעבר כמרצה בבתי ספר שונים בארץ (האקדמיה בצלאל, המדרשה לאמנות, מכון אבני ועוד).", "גם כיום, לאחר גיל 90, שמעון אבני פעיל וממשיך לעבוד בסטודיו באופן רצוף. עבודותיו מהשנים האחרונות מתאפיינות בשימוש רב־גוני וסקרני במגוון חומרים שהאמן אוסף לסטודיו שלו, ובכושר המצאה ודיאלוג עם חומרי העבר וההווה מן הביוגרפיה העשירה לו."], "notes": ["Hambourg, Maria Morris, and Christopher Phillips, The New Vision: Photography between the World Wars. The Ford Motor Company Collection at The Metropolitan Museum of Art, 1995"], "artists": ["שמעון אבני"], "artistsEn": ["Shimon Avni"], "start": "2024-08-09", "end": "2024-08-24", "img": "img/x-reading-tearing.jpg", "works": [{"img": "img/x-reading-tearing.jpg", "caption": ""}, {"img": "img/x-reading-tearing-w1.jpg", "caption": ""}, {"img": "img/x-reading-tearing-w3.jpg", "caption": ""}, {"img": "img/x-reading-tearing-w2.jpg", "caption": ""}, {"img": "img/x-reading-tearing-w4.jpg", "caption": ""}], "curator": "יקיר שגב", "curatorEn": "Yakir Segev", "curatorLabel": "אוצר", "curatorLabelEn": "Curator"},
